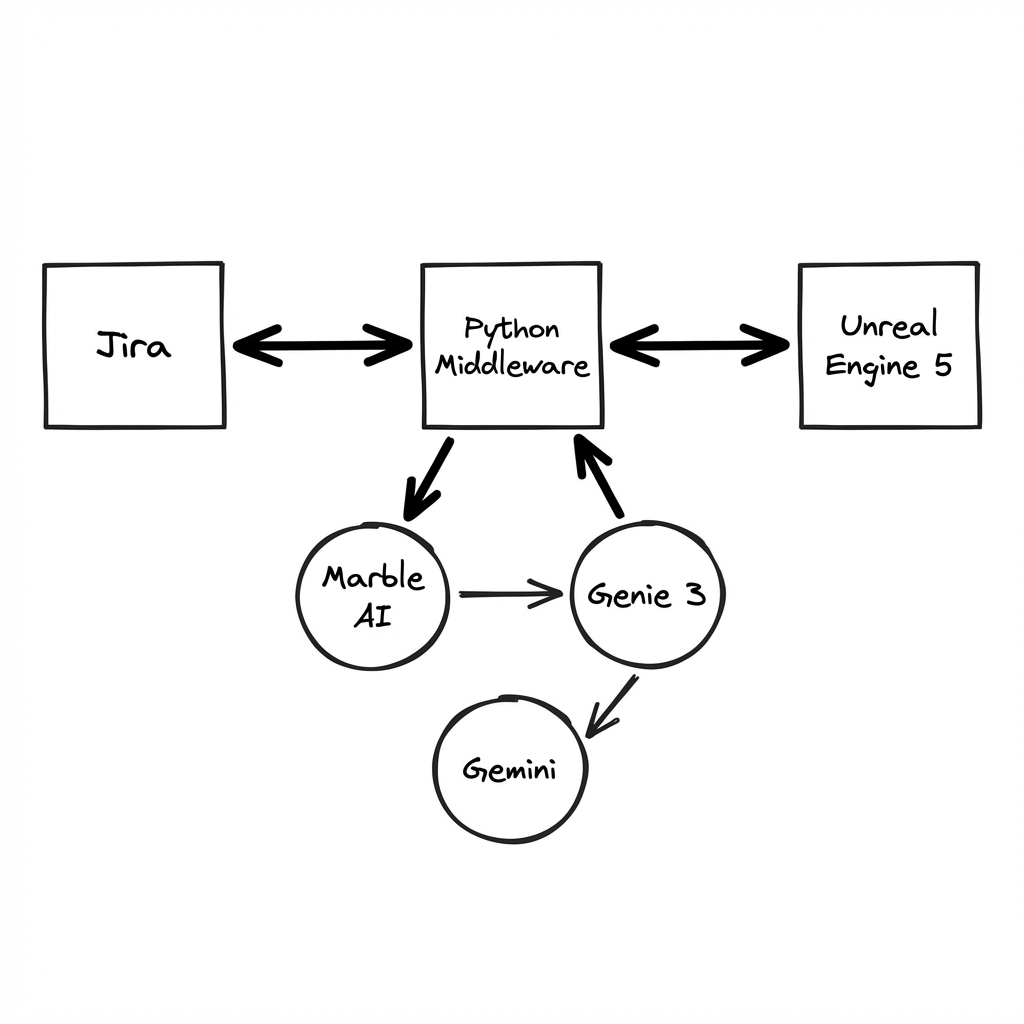
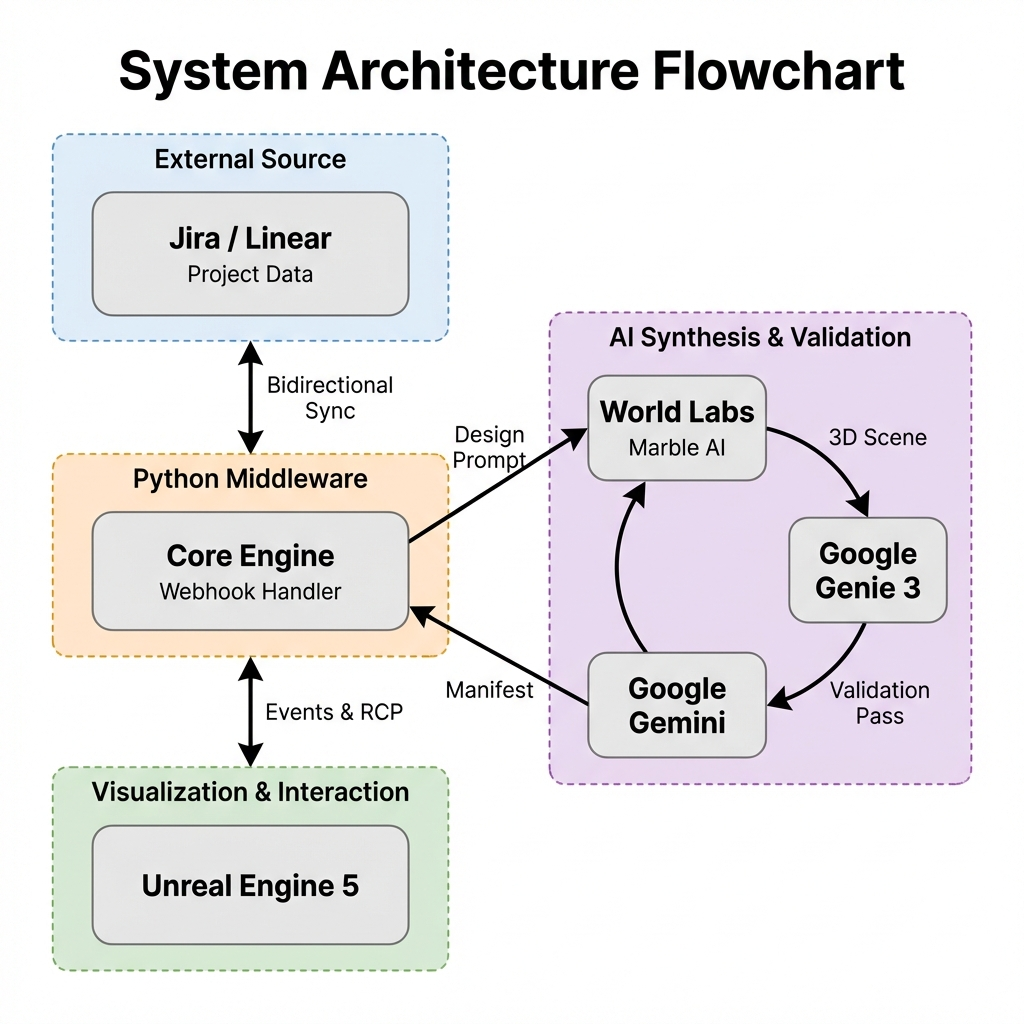
docs: add architecture guide and update diagram v5

diff --git a/docs/bloompath_architecture_guide.md b/docs/bloompath_architecture_guide.md
@@ -1,0 +1,54 @@
+# 🌸 BloomPath: Architecture & Workflow Guide
+
+Welcome to **BloomPath**! This document explains how the system works in simple terms. Think of BloomPath as a "living bridge" that turns your boring project to-do lists into a beautiful, growing 3D garden.
+
+Below is the breakdown of the diverse software roles shown in our workflow diagram. We will follow a single example: **"Build a stone bridge over the river"**.
+
+![Workflow Diagram](./images/bloompath_workflow_diagram.png)
+
+---
+
+## 1. Project Lifecycle: From Seed to Structure
+Your project board isn't just a list; it's the timeline of growth in the garden. Here is how each column interacts with the automated system:
+
+| Column | Role in Garden (Unreal Engine 5) | What Happens? |
+| :--- | :--- | :--- |
+| **Backlog / To Do** | **The Seeds** | Issues here exist as dormant seeds or faint blueprints on the ground. They are potential energy waiting to be used. |
+| **In Progress** | **The Growth** | **Action Trigger**: Moving here wakes up the **Python Middleware**. The **Architect (Marble AI)** begins generating the 3D model (the bridge). You might see scaffolding or growing vines in the garden. |
+| **In Review** | **The Inspection** | **The Playtester (Genie 3)** runs its simulation. If the bridge is walkable, it glows with stability. If it's broken, it might look ghostly or unstable (Validation Pass). |
+| **Done** | **The Bloom** | **Final State**: The bridge solidifies into permanent stone. It is now a functional part of the world that you can walk on. |
+
+---
+
+## 2. The Coordinator: Python Middleware
+**Role: The "Gardener"**
+
+This is the hidden brain of the operation. It connects your project management tool to the AI world.
+- **What it does**: It watches the columns. When "FEATURE-101" moves to **In Progress**, it shouts, "Start building!"
+- **Workflow**: "Okay, the user is working on a **stone bridge**. Creative Team, I need a visualization *now*."
+
+## 3. The AI Creative Team (Synthesis & Validation)
+This is a loop where three different AIs work together to build and check your reward.
+
+### A. World Labs (Marble AI)
+**Role: The "Architect"**
+- **Job**: It takes the text "Stone Bridge" and imagines a 3D structure.
+- **Example Action**: It creates the actual 3D geometry of a sturdy, arched stone bridge.
+
+### B. Google Genie 3
+**Role: The "Playtester"**
+- **Job**: Before showing you the bridge, Genie 3 jumps *into* the 3D model and acts like a player.
+- **Example Action**: It runs a simulation: "Can I walk from one side to the other without falling through the floor?"
+- **Verdict**: If the bridge has a gap, Genie 3 reports a failure.
+
+### C. Google Gemini 3
+**Role: The "Inspector"**
+- **Job**: Gemini 3 watches Genie 3 play and analyzes the visual style.
+- **Example Action**: It looks at the bridge and tags it: *"Material: Stone", "Style: Ancient", "Function: Walkable"*. It writes a **Manifest** (a digital shipping label) so the garden knows exactly what is arriving.
+
+## 4. The Destination: Unreal Engine 5
+**Role: The "Garden"**
+
+This is what you see on your screen. It is a high-quality 3D video game engine.
+- **Experience**: You walk around and watch your work come to life.
+- **Feedback**: The state of the garden tells you the health of the project. A garden full of ghosts means lots of work is "In Review" or failing tests. A garden of stone bridges means lots of work is "Done".
